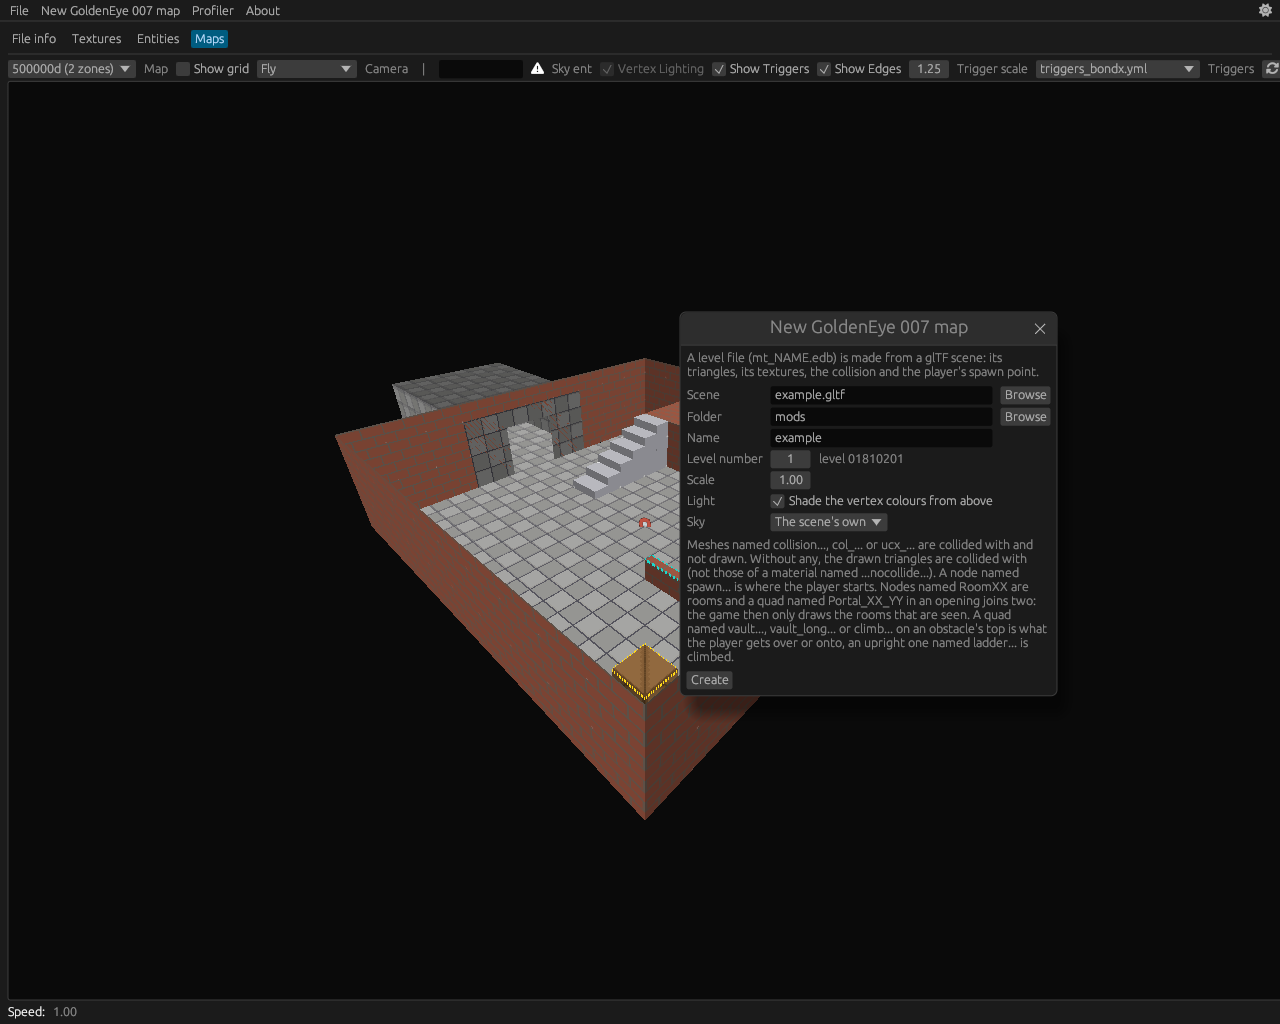
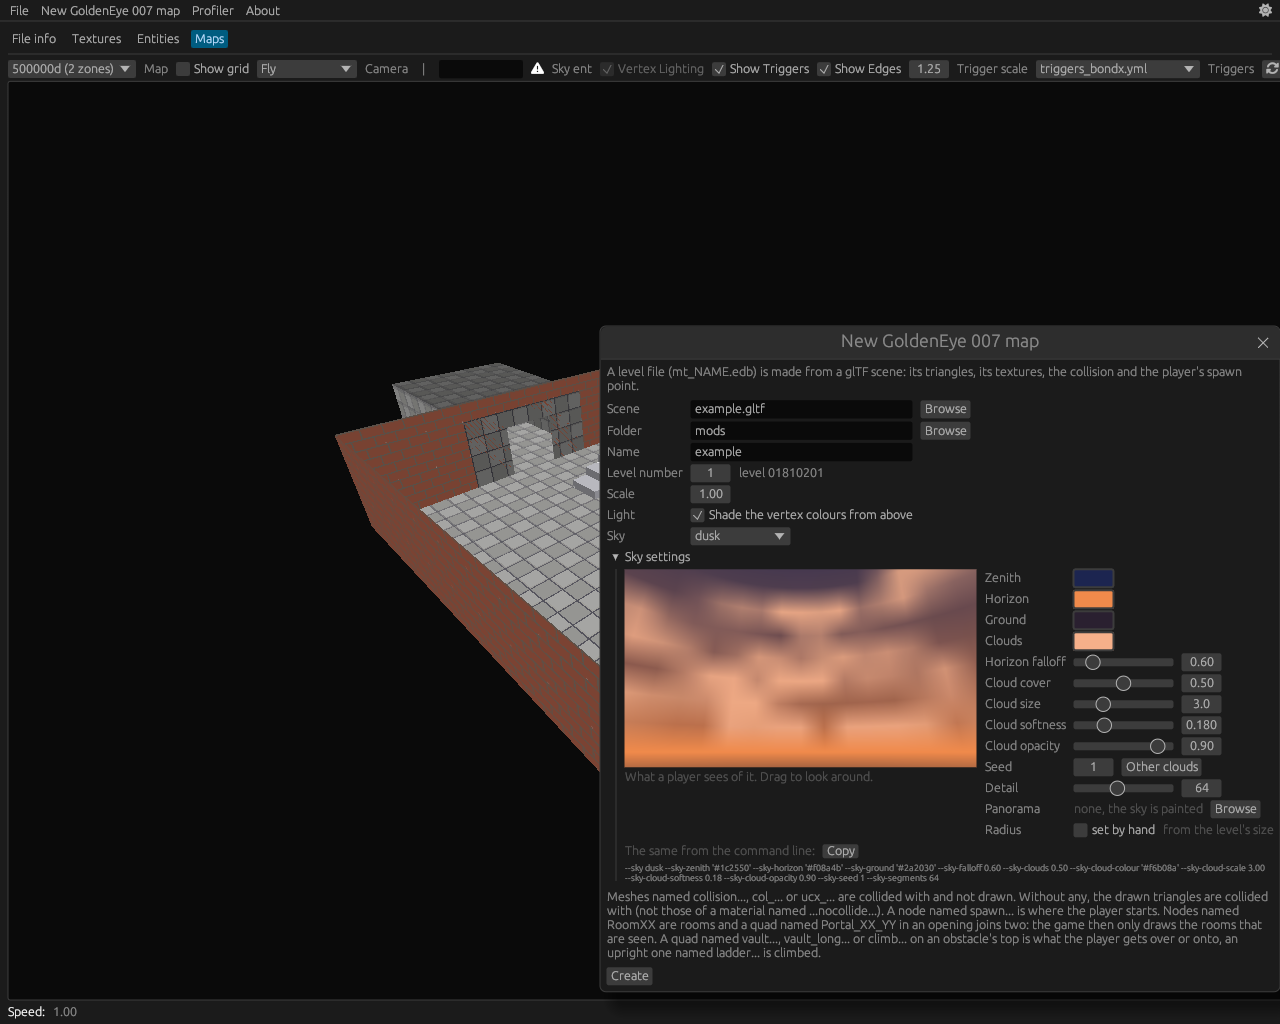
sky settings in the new map window

Changed region(s): [[0.4688, 0.2812, 1.0, 0.9688], [0.7812, 0.7812, 0.8125, 0.8125]]

diff --git a/eurochef/gui/src/app.rs b/eurochef/gui/src/app.rs
@@ -14,6 +14,7 @@ use eurochef_edb::{
     versions::Platform,
     Hashcode, HashcodeUtils,
 };
+use eurochef_shared::ge::sky::{self, SkyOptions};
 use eurochef_shared::filesystem::path::DissectedFilelistPath;
 use eurochef_shared::{
     hashcodes::parse_hashcodes, script::UXGeoScript, spreadsheets::UXGeoSpreadsheet,
@@ -98,9 +99,13 @@ struct NewMapDialog {
     scale: f32,
     bake_light: bool,
     /// A made sky's preset. Empty: the scene's own sky, if it has one
-    sky: String,
-    sky_clouds: f32,
-    sky_seed: u64,
+    sky_preset: String,
+    /// The made sky as it is set, a preset to begin with
+    sky: SkyOptions,
+    /// Where the sky's picture looks: degrees around and up
+    sky_look: (f32, f32),
+    /// The sky's picture, None when it has to be drawn again
+    sky_picture: Option<egui::TextureHandle>,
     status: String,
 }
 
@@ -113,9 +118,10 @@ impl Default for NewMapDialog {
             id: 1,
             scale: 1.0,
             bake_light: true,
-            sky: String::new(),
-            sky_clouds: 0.35,
-            sky_seed: 1,
+            sky_preset: String::new(),
+            sky: SkyOptions::preset("day").expect("the day preset"),
+            sky_look: (0.0, 20.0),
+            sky_picture: None,
             status: String::new(),
         }
     }
@@ -206,6 +212,168 @@ impl EurochefApp {
     }
 
     /// The window of File > New GoldenEye 007 map
+    /// The made sky's own settings: a picture of it to look around in, its colours, its clouds
+    /// and where the sphere is
+    fn show_sky_settings(ui: &mut egui::Ui, dialog: &mut NewMapDialog) {
+        const PICTURE: (u32, u32) = (352, 198);
+        egui::CollapsingHeader::new("Sky settings").default_open(true).show(ui, |ui| {
+            let mut changed = false;
+            ui.horizontal_top(|ui| {
+                ui.vertical(|ui| {
+                    if dialog.sky_picture.is_none() {
+                        match sky::preview(&dialog.sky, PICTURE, dialog.sky_look.0, dialog.sky_look.1) {
+                            Ok(image) => {
+                                let image = egui::ColorImage::from_rgba_unmultiplied(
+                                    [PICTURE.0 as usize, PICTURE.1 as usize],
+                                    image.as_raw(),
+                                );
+                                dialog.sky_picture = Some(ui.ctx().load_texture("new_map_sky", image, Default::default()));
+                            }
+                            Err(e) => {
+                                ui.colored_label(egui::Color32::LIGHT_RED, format!("{e:#}"));
+                            }
+                        }
+                    }
+                    if let Some(picture) = &dialog.sky_picture {
+                        let response = ui.add(egui::Image::new(picture).sense(egui::Sense::drag()));
+                        let by = response.drag_delta();
+                        if by != egui::Vec2::ZERO {
+                            dialog.sky_look.0 = (dialog.sky_look.0 - by.x * 0.25).rem_euclid(360.0);
+                            dialog.sky_look.1 = (dialog.sky_look.1 + by.y * 0.25).clamp(-89.0, 89.0);
+                            changed = true;
+                        }
+                    }
+                    ui.weak("What a player sees of it. Drag to look around.");
+                });
+                egui::Grid::new("new_map_sky_settings").num_columns(2).show(ui, |ui| {
+                    let sky = &mut dialog.sky;
+                    let painted = sky.texture.is_none();
+                    let mut colour = |ui: &mut egui::Ui, label: &str, colour: &mut sky::Colour, enabled: bool| {
+                        ui.label(label);
+                        // the colours are the way they look, as the picker's bytes are
+                        let mut bytes = colour.map(|c| (c.clamp(0.0, 1.0) * 255.0).round() as u8);
+                        let edited = ui.add_enabled_ui(enabled, |ui| ui.color_edit_button_srgb(&mut bytes).changed()).inner;
+                        if edited {
+                            *colour = bytes.map(|b| b as f32 / 255.0);
+                        }
+                        ui.end_row();
+                        edited
+                    };
+                    changed |= colour(ui, "Zenith", &mut sky.zenith, painted);
+                    changed |= colour(ui, "Horizon", &mut sky.horizon, painted);
+                    changed |= colour(ui, "Ground", &mut sky.ground, painted);
+                    changed |= colour(ui, "Clouds", &mut sky.cloud_colour, painted);
+                    let mut slider = |ui: &mut egui::Ui, label: &str, value: &mut f32, range: std::ops::RangeInclusive<f32>, hint: &str| {
+                        ui.label(label).on_hover_text(hint);
+                        let moved = ui.add_enabled(painted, egui::Slider::new(value, range)).on_hover_text(hint).changed();
+                        ui.end_row();
+                        moved
+                    };
+                    changed |= slider(ui, "Horizon falloff", &mut sky.falloff, 0.2..=3.0, "How soon the horizon gives way to the zenith: below 1 soon, above 1 late");
+                    changed |= slider(ui, "Cloud cover", &mut sky.clouds, 0.0..=1.0, "How much of the sky the clouds take");
+                    changed |= slider(ui, "Cloud size", &mut sky.cloud_scale, 0.5..=10.0, "Larger: smaller clouds");
+                    changed |= slider(ui, "Cloud softness", &mut sky.cloud_softness, 0.02..=0.6, "How soft their edges are");
+                    changed |= slider(ui, "Cloud opacity", &mut sky.cloud_opacity, 0.0..=1.0, "How much of the sky they hide");
+                    ui.label("Seed").on_hover_text("Another number, other clouds");
+                    ui.horizontal(|ui| {
+                        changed |= ui.add_enabled(painted, egui::DragValue::new(&mut sky.seed).range(1..=9999)).changed();
+                        if ui.add_enabled(painted, egui::Button::new("Other clouds")).clicked() {
+                            sky.seed = sky.seed % 9999 + 1;
+                            changed = true;
+                        }
+                    });
+                    ui.end_row();
+                    ui.label("Detail").on_hover_text("Segments around the sphere: more is smoother clouds and more triangles");
+                    changed |= ui.add(egui::Slider::new(&mut sky.segments, 16..=128).step_by(4.0)).changed();
+                    ui.end_row();
+
+                    ui.label("Panorama").on_hover_text("A picture of the whole sky unrolled (2:1) in place of the painted one");
+                    ui.horizontal(|ui| {
+                        match &sky.texture {
+                            Some(path) => ui.label(path.file_name().map(|n| n.to_string_lossy().to_string()).unwrap_or_default()),
+                            None => ui.weak("none, the sky is painted"),
+                        };
+                        if ui.button("Browse").clicked() {
+                            if let Some(path) = rfd::FileDialog::new().add_filter("Picture", &["png", "jpg", "jpeg", "tga"]).pick_file() {
+                                sky.texture = Some(path);
+                                changed = true;
+                            }
+                        }
+                        if sky.texture.is_some() && ui.button("Remove").clicked() {
+                            sky.texture = None;
+                            changed = true;
+                        }
+                    });
+                    ui.end_row();
+
+                    ui.label("Radius").on_hover_text("Of the sphere around the level");
+                    ui.horizontal(|ui| {
+                        let mut own = sky.radius.is_some();
+                        if ui.checkbox(&mut own, "set by hand").changed() {
+                            sky.radius = own.then_some(300.0);
+                        }
+                        match &mut sky.radius {
+                            Some(radius) => {
+                                ui.add(egui::DragValue::new(radius).speed(1.0).range(10.0..=5000.0));
+                            }
+                            None => {
+                                ui.weak("from the level's size");
+                            }
+                        }
+                    });
+                    ui.end_row();
+                });
+            });
+            if changed {
+                dialog.sky_picture = None;
+            }
+            ui.horizontal(|ui| {
+                ui.weak("The same from the command line:");
+                if ui.small_button("Copy").clicked() {
+                    ui.ctx().copy_text(Self::sky_command(&dialog.sky_preset, &dialog.sky));
+                }
+            });
+            ui.add(egui::Label::new(egui::RichText::new(Self::sky_command(&dialog.sky_preset, &dialog.sky)).monospace().small()).wrap());
+        });
+    }
+
+    /// The options of `eurochef-cli ge new-map` that make the sky as it is set
+    fn sky_command(preset: &str, sky: &SkyOptions) -> String {
+        let hex = |c: &sky::Colour| {
+            let b = c.map(|c| (c.clamp(0.0, 1.0) * 255.0).round() as u8);
+            format!("'#{:02x}{:02x}{:02x}'", b[0], b[1], b[2])
+        };
+        let mut words = vec![];
+        match &sky.texture {
+            Some(path) => words.push(format!("--sky-texture '{}'", path.display())),
+            None => {
+                words.push(format!(
+                    "--sky {preset} --sky-zenith {} --sky-horizon {} --sky-ground {} --sky-falloff {:.2} --sky-clouds {:.2}",
+                    hex(&sky.zenith),
+                    hex(&sky.horizon),
+                    hex(&sky.ground),
+                    sky.falloff,
+                    sky.clouds
+                ));
+                if sky.clouds > 0.0 {
+                    words.push(format!(
+                        "--sky-cloud-colour {} --sky-cloud-scale {:.2} --sky-cloud-softness {:.2} --sky-cloud-opacity {:.2} --sky-seed {}",
+                        hex(&sky.cloud_colour),
+                        sky.cloud_scale,
+                        sky.cloud_softness,
+                        sky.cloud_opacity,
+                        sky.seed
+                    ));
+                }
+            }
+        }
+        words.push(format!("--sky-segments {}", sky.segments));
+        if let Some(radius) = sky.radius {
+            words.push(format!("--sky-radius {radius}"));
+        }
+        words.join(" ")
+    }
+
     fn show_new_map(&mut self, ctx: &egui::Context) {
         let Some(dialog) = self.new_map.as_mut() else {
             return;
@@ -266,24 +434,32 @@ impl EurochefApp {
                     ui.end_row();
 
                     ui.label("Sky");
-                    ui.horizontal(|ui| {
-                        egui::ComboBox::from_id_source("new_map_sky")
-                            .selected_text(if dialog.sky.is_empty() { "The scene's own" } else { dialog.sky.as_str() })
-                            .show_ui(ui, |ui| {
-                                ui.selectable_value(&mut dialog.sky, String::new(), "The scene's own");
-                                for (name, _, clouds) in eurochef_shared::ge::sky::PRESETS {
-                                    if ui.selectable_value(&mut dialog.sky, name.to_string(), name).clicked() {
-                                        dialog.sky_clouds = clouds;
+                    egui::ComboBox::from_id_source("new_map_sky")
+                        .selected_text(if dialog.sky_preset.is_empty() { "The scene's own" } else { dialog.sky_preset.as_str() })
+                        .show_ui(ui, |ui| {
+                            ui.selectable_value(&mut dialog.sky_preset, String::new(), "The scene's own");
+                            for (name, _, _) in sky::PRESETS {
+                                if ui.selectable_value(&mut dialog.sky_preset, name.to_string(), name).clicked() {
+                                    // a preset's colours and clouds, the rest stays as it was set
+                                    if let Ok(preset) = SkyOptions::preset(name) {
+                                        dialog.sky = SkyOptions {
+                                            zenith: preset.zenith,
+                                            horizon: preset.horizon,
+                                            ground: preset.ground,
+                                            cloud_colour: preset.cloud_colour,
+                                            clouds: preset.clouds,
+                                            ..dialog.sky.clone()
+                                        };
                                     }
+                                    dialog.sky_picture = None;
                                 }
-                            });
-                        if !dialog.sky.is_empty() {
-                            ui.add(egui::Slider::new(&mut dialog.sky_clouds, 0.0..=1.0).text("clouds"));
-                            ui.add(egui::DragValue::new(&mut dialog.sky_seed).range(1..=500).prefix("seed "));
-                        }
-                    });
+                            }
+                        });
                     ui.end_row();
                 });
+                if !dialog.sky_preset.is_empty() {
+                    Self::show_sky_settings(ui, dialog);
+                }
                 ui.add_space(4.0);
                 ui.label("Meshes named collision..., col_... or ucx_... are collided with and not drawn. Without any, the drawn triangles are collided with (not those of a material named ...nocollide...). A node named spawn... is where the player starts. Nodes named RoomXX are rooms and a quad named Portal_XX_YY in an opening joins two: the game then only draws the rooms that are seen. A quad named vault..., vault_long... or climb... on an obstacle's top is what the player gets over or onto, an upright one named ladder... is climbed.");
                 ui.add_space(4.0);
@@ -309,11 +485,7 @@ impl EurochefApp {
                     bake_light: dialog.bake_light,
                     ..Default::default()
                 },
-                sky: eurochef_shared::ge::sky::SkyOptions::preset(&dialog.sky).ok().map(|mut sky| {
-                    sky.clouds = dialog.sky_clouds;
-                    sky.seed = dialog.sky_seed;
-                    sky
-                }),
+                sky: (!dialog.sky_preset.is_empty()).then(|| dialog.sky.clone()),
             };
             let made = project::new_map_from_gltf(&dialog.gltf, &options).and_then(|mut map| {
                 let path = map.save(&dialog.folder)?;
@@ -366,6 +538,8 @@ impl EurochefApp {
         dialog.name = std::path::Path::new(&gltf).file_stem().map(|s| s.to_string_lossy().to_string()).unwrap_or_default();
         dialog.folder = "mods".to_string();
         dialog.gltf = gltf;
+        dialog.sky_preset = "dusk".to_string();
+        dialog.sky = SkyOptions { clouds: 0.5, ..SkyOptions::preset("dusk").expect("the dusk preset") };
         self.new_map = Some(dialog);
     }
 

diff --git a/docs/USAGE-GE.md b/docs/USAGE-GE.md
@@ -279,7 +279,16 @@ In the Maps tab, click a trigger and the **Entities** window lets you move it, t
 
 ![Screenshot of the new map dialog](./usage-ge/newmap.png)
 
-It has less options than the CLI (no `--spawn`, no `--linear-colours`, and of the sky only the preset, the clouds and the seed). For those, well, there's a terminal.
+Pick a preset under *Sky* and the **Sky settings** open up. This is the one place where the window beats the terminal:
+- a picture of the sky as a player sees it, drag it to look around,
+- the four colours (zenith, horizon, ground, clouds), each a colour picker,
+- sliders for the horizon's falloff and the clouds' cover, size, softness and opacity,
+- the seed, with an *Other clouds* button for when you don't care which number,
+- *Detail* (the sphere's segments), a panorama to use instead of the painted sky, and the sphere's radius if the level's own size isn't what you want.
+
+Picking another preset only swaps the colours and the cloud cover, the rest stays as you set it. Under the picture is the same sky as `ge new-map` options, with a *Copy* button, so once you like it you can put it in a script.
+
+It still has less options than the CLI for everything that isn't the sky (no `--spawn`, no `--linear-colours`). For those, well, there's a terminal.
 
 # Things that will bite you
 In no particular order, all of these got me at least once:

diff --git a/docs/goldeneye_wii.md b/docs/goldeneye_wii.md
@@ -36,7 +36,8 @@ eurochef-cli ge edges mt_yard.edb
 - `ge edges` lists what a level file says can be vaulted over, climbed onto and climbed: every
   edge with its flags, every ladder with its foot, its top and its number of pieces.
 - The viewer: *New GoldenEye 007 map* in the menu bar does what `ge new-map` does and opens the
-  result. In the Maps tab the *Entities* window moves the selected trigger, changes its values,
+  result. Its *Sky settings* set a made sky's colours, clouds, panorama and radius, with a
+  picture of it to look around in. In the Maps tab the *Entities* window moves the selected trigger, changes its values,
   duplicates and deletes it, adds new ones at the camera and saves the file. *Export triggers as
   glTF...* there does what `ge export-triggers` does, with the triggers as they are in the window.
   *Show Edges* draws the edges and ladders of the zones' entities over the level: green a vault,
